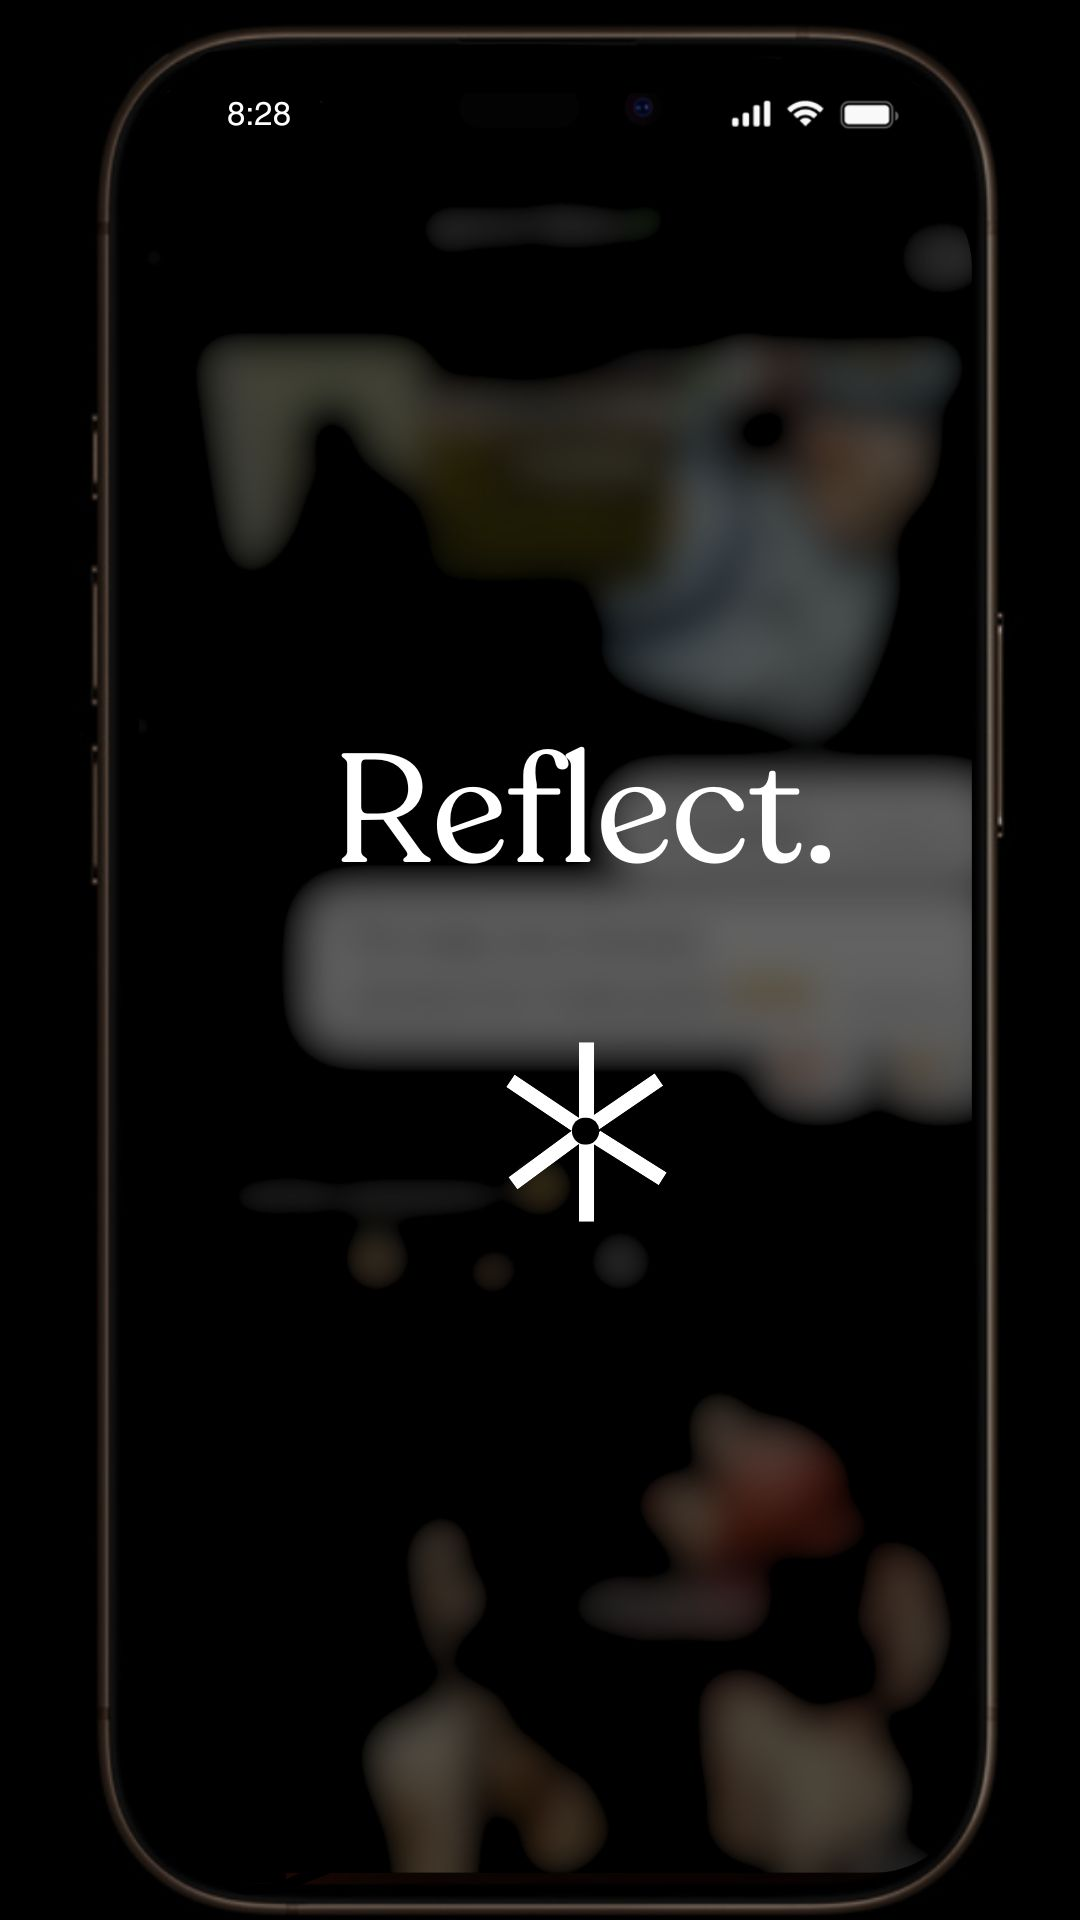
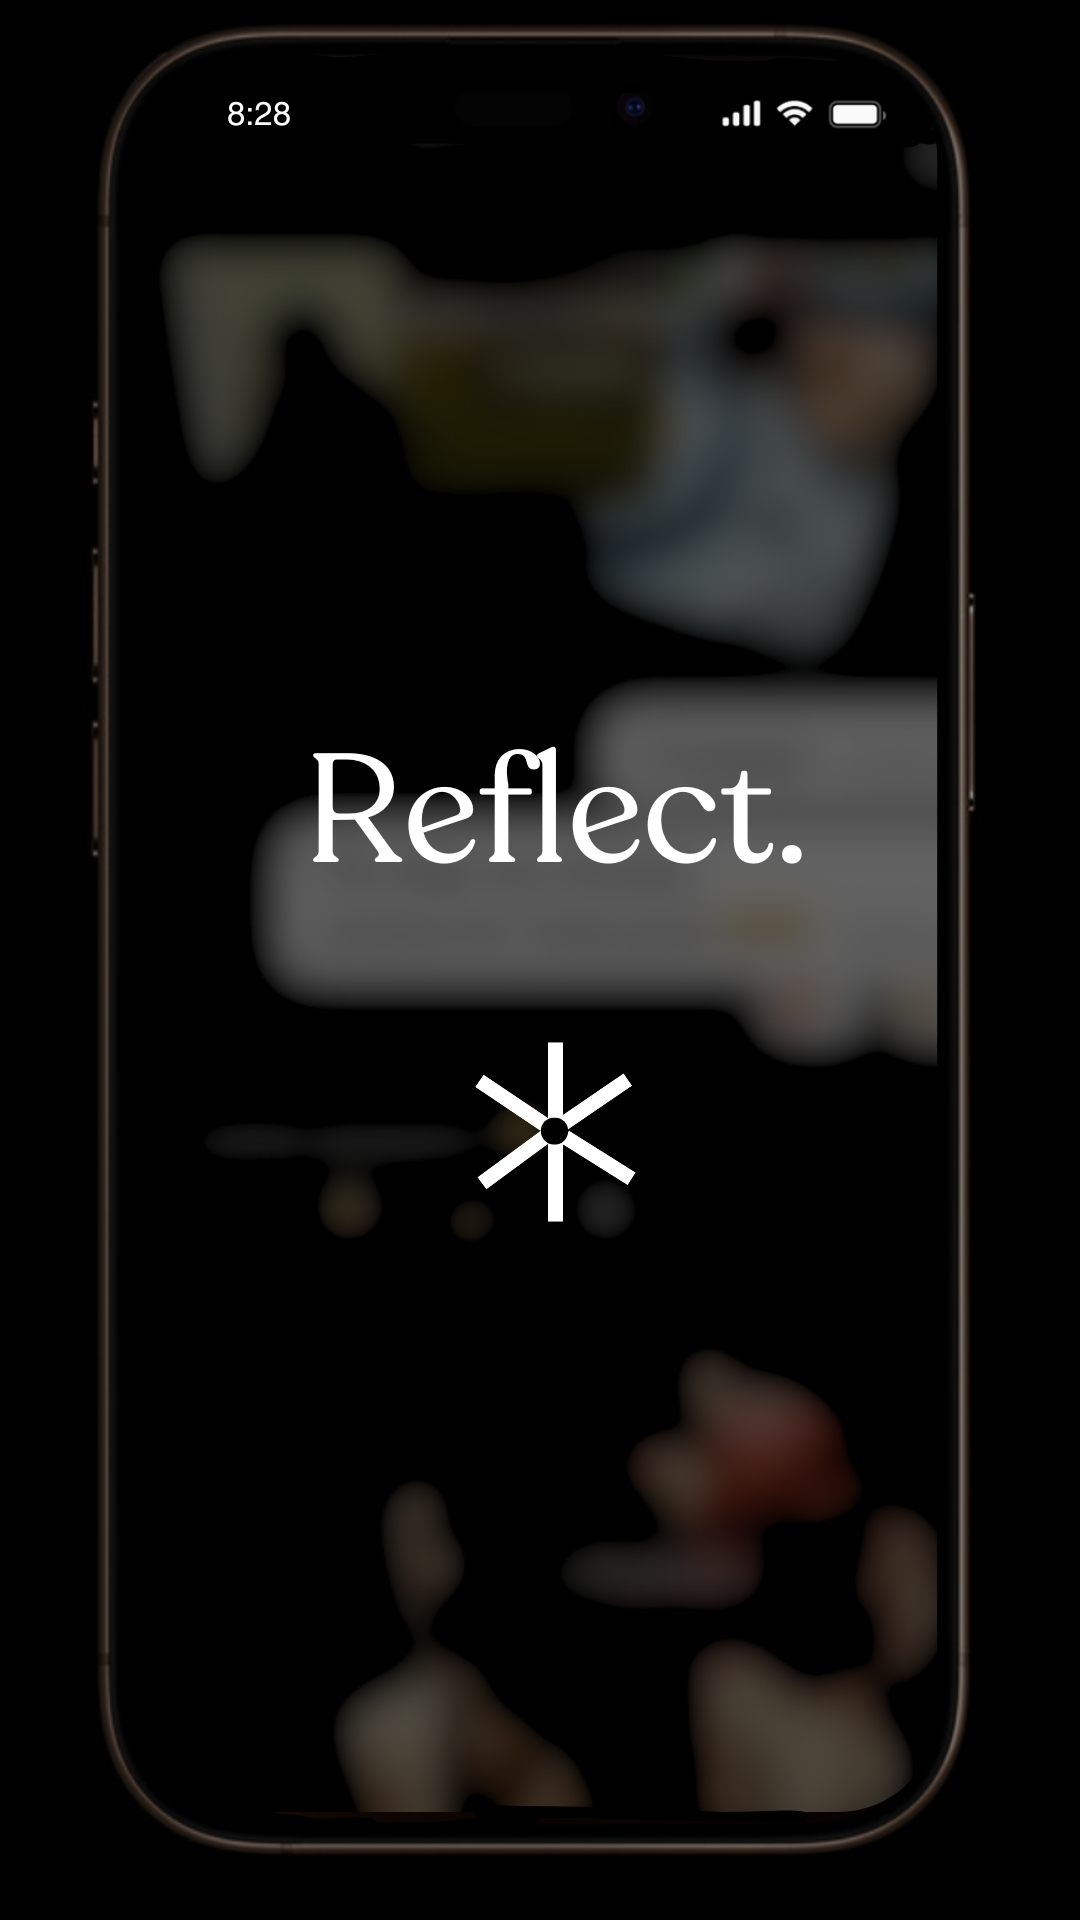
Landing page final

Changed region(s): [[0.0917, 0.0, 0.9472, 1.0], [0.3056, 0.625, 0.3667, 0.6875]]

diff --git a/src/LandingPage.css b/src/LandingPage.css
@@ -83,7 +83,7 @@ body, html, #root {
     font-size: 1.3em;
     cursor: pointer;
     transition: all 0.3s ease;
-    margin-top: 40px;
+    margin-top: 15px;
 }
 
 .cta-button:hover {
@@ -150,7 +150,24 @@ body, html, #root {
     height: 100px;
 }
 
-/* Footer */
+/* Mobile Footer Content */
+.mobile-footer-content {
+    display: none;
+    text-align: center;
+    font-size: 0.8em;
+    color: #aaa;
+    margin-top: 20px;
+}
+
+/* Social Icons within Mobile Footer */
+.mobile-footer-content .social-icons {
+    display: flex;
+    justify-content: center;
+    gap: 20px;
+    margin-bottom: 10px;
+}
+
+/* Footer for Desktop */
 .footer {
     position: absolute;
     bottom: 1%;
@@ -160,7 +177,8 @@ body, html, #root {
     z-index: 2;
 }
 
-.footer p {
+/* Footer Paragraphs */
+.footer p, .mobile-footer-content p {
     margin: 5px 0;
 }
 
@@ -172,13 +190,17 @@ body, html, #root {
         left: 0;
     }
 
+    
+    .header-content {
+        margin-right: 35px;
+    }
+
     .logo {
         height: 30px;
-        filter: invert(100%);
     }
 
     .main-content {
-        top: 10%;
+        top: 15%;
         text-align: center;
         margin-top: 20px;
     }
@@ -189,12 +211,7 @@ body, html, #root {
     }
 
     .social-icons {
-        display: flex;
-        justify-content: center;  
-        margin-top: 20px;
-        gap: 20px;
-        
-        
+        display: none;
     }
 
     .main-heading {
@@ -217,7 +234,7 @@ body, html, #root {
         font-size: 1.2em;
         cursor: pointer;
         transition: all 0.3s ease;
-        margin-top: 80px;
+        margin-top: 40px;
     }
    
     .phone-mockup {
@@ -238,16 +255,11 @@ body, html, #root {
     }
 
     .footer {
-        width: 100%;
-        text-align: center;
-        font-size: 0.7em;
-        position: absolute;
-        bottom: 10px;
-        left: 0%;
+        display: none; /* Hide footer on mobile */
     }
 
-    .footer p {
-        margin: 3px 0;
+    .mobile-footer-content {
+        display: block; /* Show mobile footer content */
     }
 }
 
@@ -270,6 +282,7 @@ body, html, #root {
 .subheading,
 .cta-button,
 .iphone-mockup,
+.mobile-footer-content,
 .background-images .bg-image {
     opacity: 0; /* Initial state */
     animation: fadeInFromTop 1s ease-in-out forwards; /* Duration and ease */

diff --git a/src/LandingPage.js b/src/LandingPage.js
@@ -23,21 +23,34 @@ function LandingPage() {
           </div>
         </header>
   
-        {/* Main Content */}
         <main className="main-content fade-in">
           <div className="social-icons">
             <a href="https://www.instagram.com/ideal.lyfe/profilecard/?igsh=b29tcnJ6ZDA5enNl" target="_blank" rel="noreferrer">
-                <img src={instagramIcon} alt="Instagram" className="social-icon" />
+              <img src={instagramIcon} alt="Instagram" className="social-icon" />
             </a>
             <a href="https://x.com/LyfeisSocial" target="_blank" rel="noreferrer">
-                <img src={xlogo} alt="Instagram" className="social-icon" />
+              <img src={xlogo} alt="X" className="social-icon" />
             </a>
           </div>
           <h1 className="main-heading">Be real. Be Calm.</h1>
           <p className="subheading">This is a test of heights by AI</p>
           <a href="https://forms.fillout.com/t/2HnnrSfJU9us" target="_blank" rel="noreferrer">
-              <button className="cta-button">Get Early Access</button>
+            <button className="cta-button">Get Early Access</button>
           </a>
+
+          {/* Mobile Footer Content */}
+          <div className="mobile-footer-content">
+            <div className="social-icons">
+              <a href="https://www.instagram.com/ideal.lyfe/profilecard/?igsh=b29tcnJ6ZDA5enNl" target="_blank" rel="noreferrer">
+                <img src={instagramIcon} alt="Instagram" className="social-icon" />
+              </a>
+              <a href="https://x.com/LyfeisSocial" target="_blank" rel="noreferrer">
+                <img src={xlogo} alt="X" className="social-icon" />
+              </a>
+            </div>
+            <p>Location: Ottawa, Canada</p>
+            <p>Email: info.socialyfe@gmail.com</p>
+          </div>
         </main>
   
         {/* Background Images */}
@@ -54,7 +67,7 @@ function LandingPage() {
           <img src={iphoneMockup} alt="iPhone Mockup" className="iphone-mockup" />
         </div>
   
-        {/* Footer */}
+        {/* Footer for Desktop */}
         <footer className="footer fade-in">
           <p>Location: Ottawa, Canada</p>
           <p>Email: info.socialyfe@gmail.com</p>
